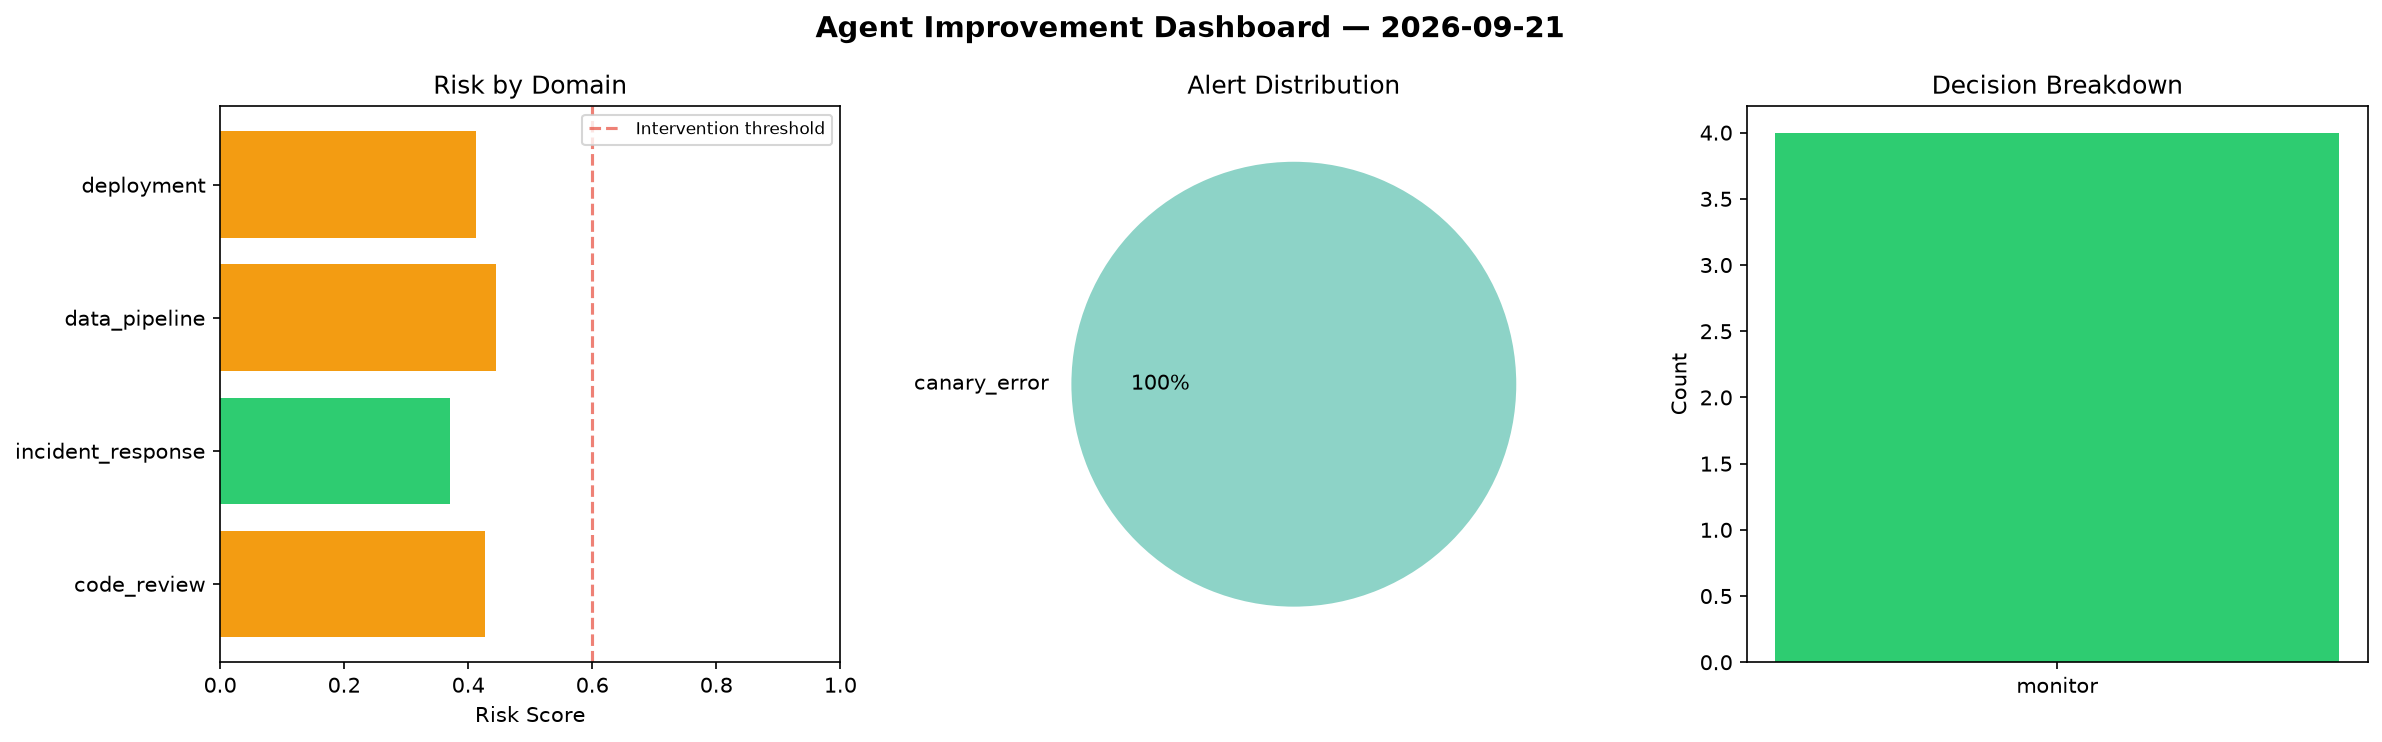
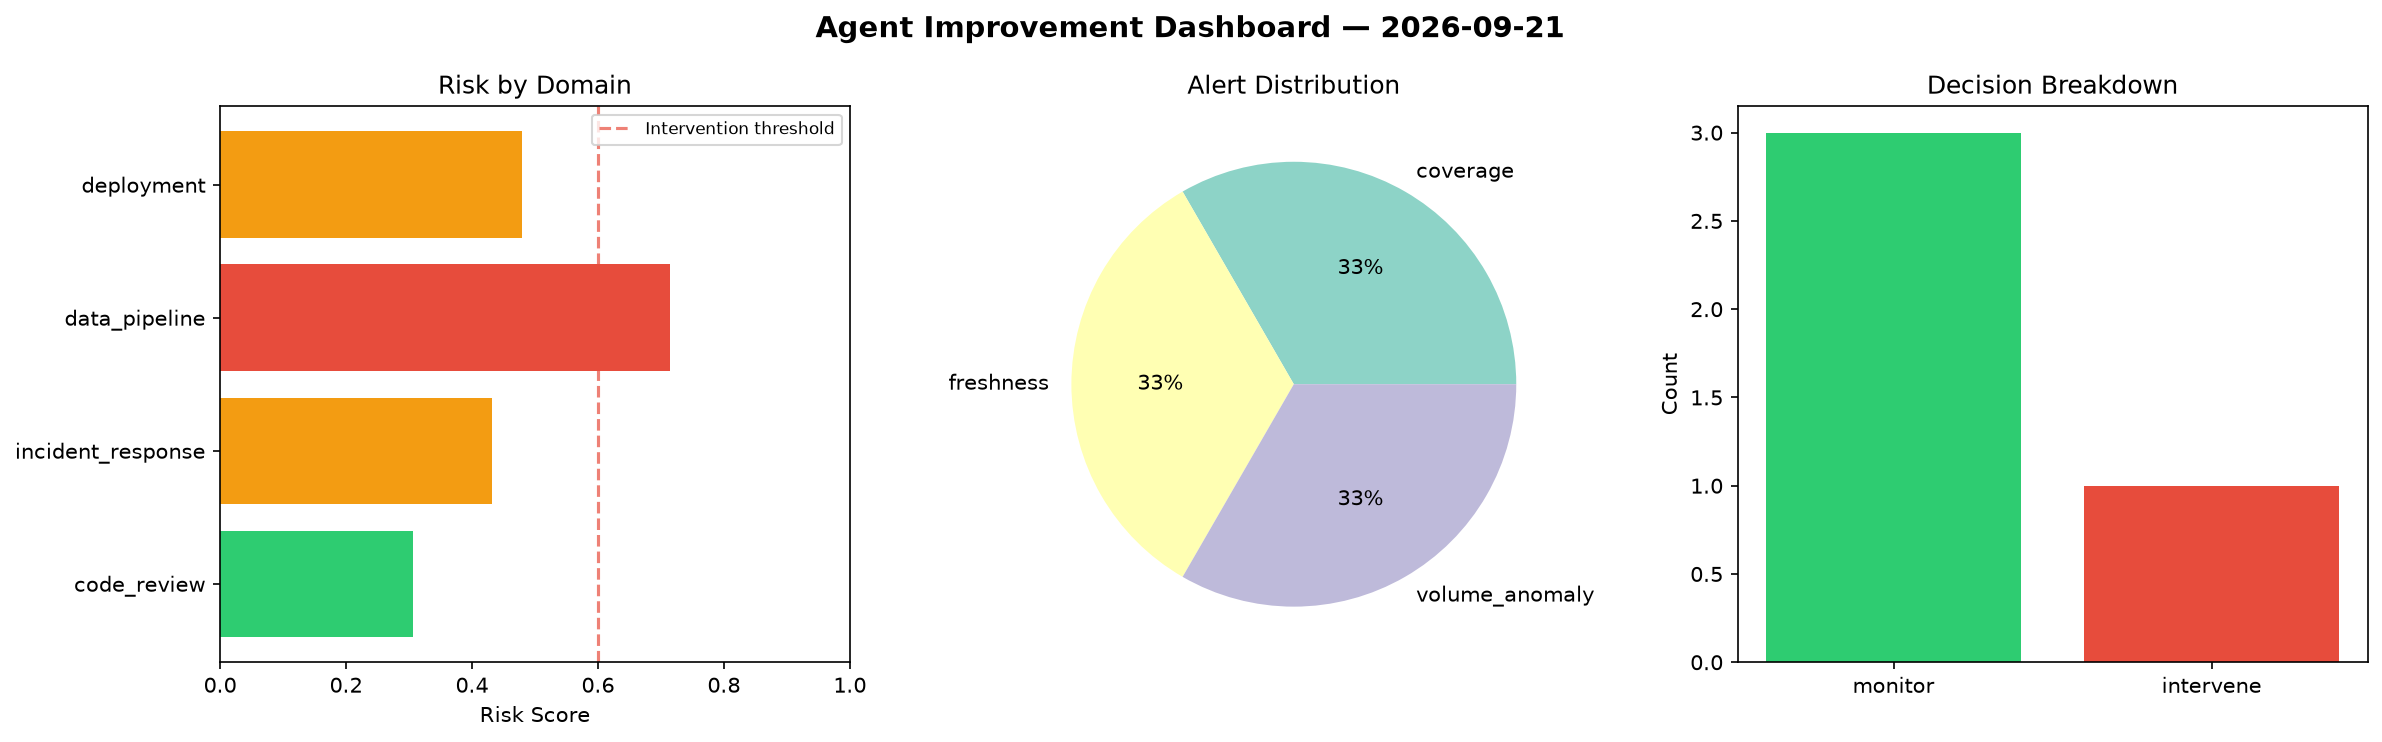
agent-improvement: daily cycle 2026-09-21T23:17

diff --git a/logs/2026-09-21.md b/logs/2026-09-21.md
@@ -1,6 +1,6 @@
 # Agent Improvement Report — 2026-09-21
 
-**Cycle ID:** `1fded083` | **Avg Risk:** 0.4139 | **Interventions:** 0/4
+**Cycle ID:** `a34ff8c2` | **Avg Risk:** 0.4829 | **Interventions:** 1/4
 
 ![Dashboard](2026-09-21_dashboard.png)
 
@@ -10,18 +10,18 @@
 
 | Domain | Risk Score | Decision | Alerts |
 |--------|-----------|----------|--------|
-| code_review | 0.4276 | monitor | none |
-| incident_response | 0.3706 | monitor | none |
-| data_pipeline | 0.4448 | monitor | none |
-| deployment | 0.4127 | monitor | canary_error |
+| code_review | 0.3063 | monitor | coverage |
+| incident_response | 0.4317 | monitor | none |
+| data_pipeline | 0.7138 | intervene | freshness, volume_anomaly |
+| deployment | 0.4798 | monitor | none |
 
 ## Delta vs Yesterday
 
 | Domain | Today | Yesterday | Change |
 |--------|-------|-----------|--------|
-| code_review | 0.4276 | 0.6838 | 📉 -37.5% |
-| incident_response | 0.3706 | 0.2985 | 📈 24.2% |
-| data_pipeline | 0.4448 | 0.5541 | 📉 -19.7% |
-| deployment | 0.4127 | 0.642 | 📉 -35.7% |
+| code_review | 0.3063 | 0.6838 | 📉 -55.2% |
+| incident_response | 0.4317 | 0.2985 | 📈 44.6% |
+| data_pipeline | 0.7138 | 0.5541 | 📈 28.8% |
+| deployment | 0.4798 | 0.642 | 📉 -25.3% |
 
-**Refinement:** `{'adjustment': 'maintain', 'trend': 'improving', 'window': 4}`
+**Refinement:** `{'adjustment': 'tighten_thresholds', 'trend': 'degrading', 'window': 4}`
